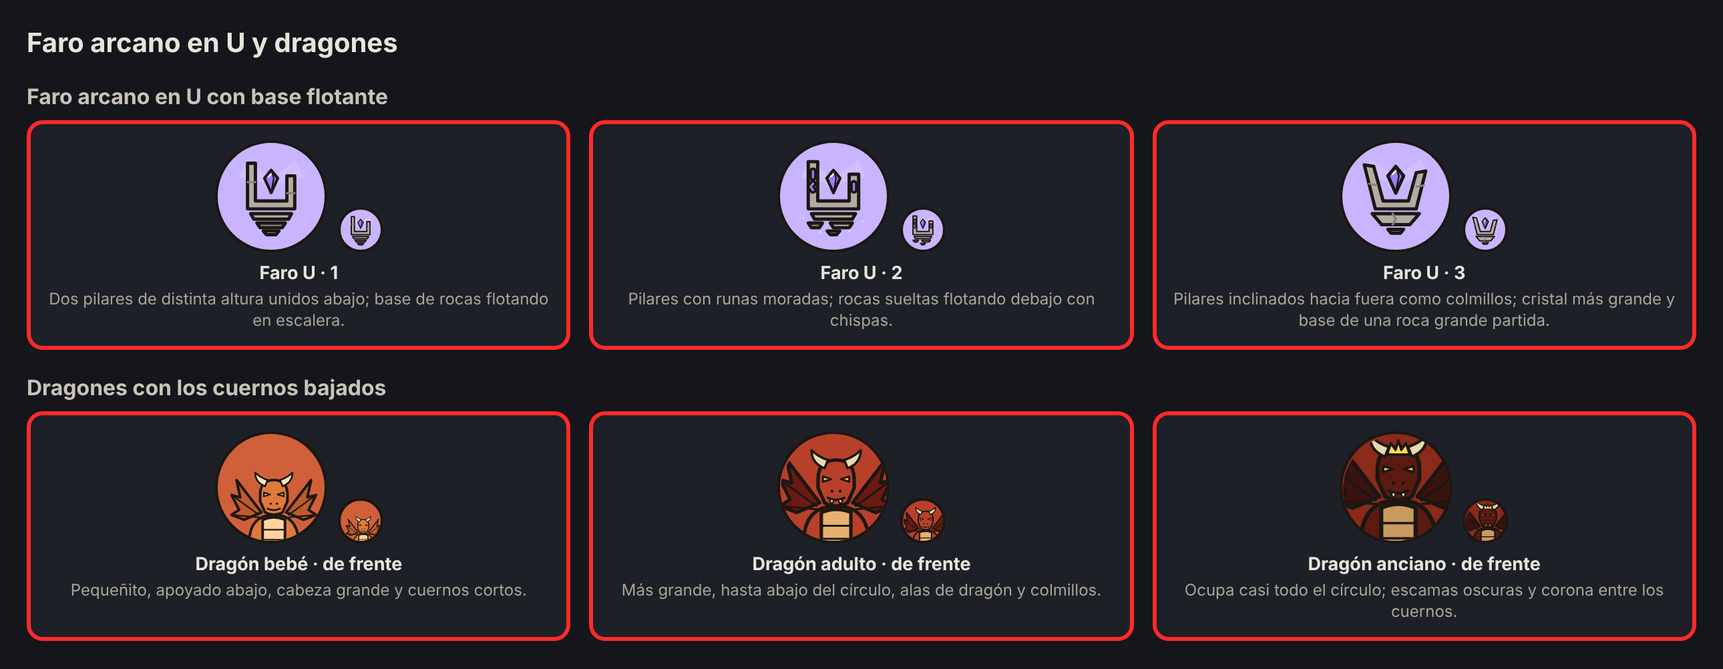
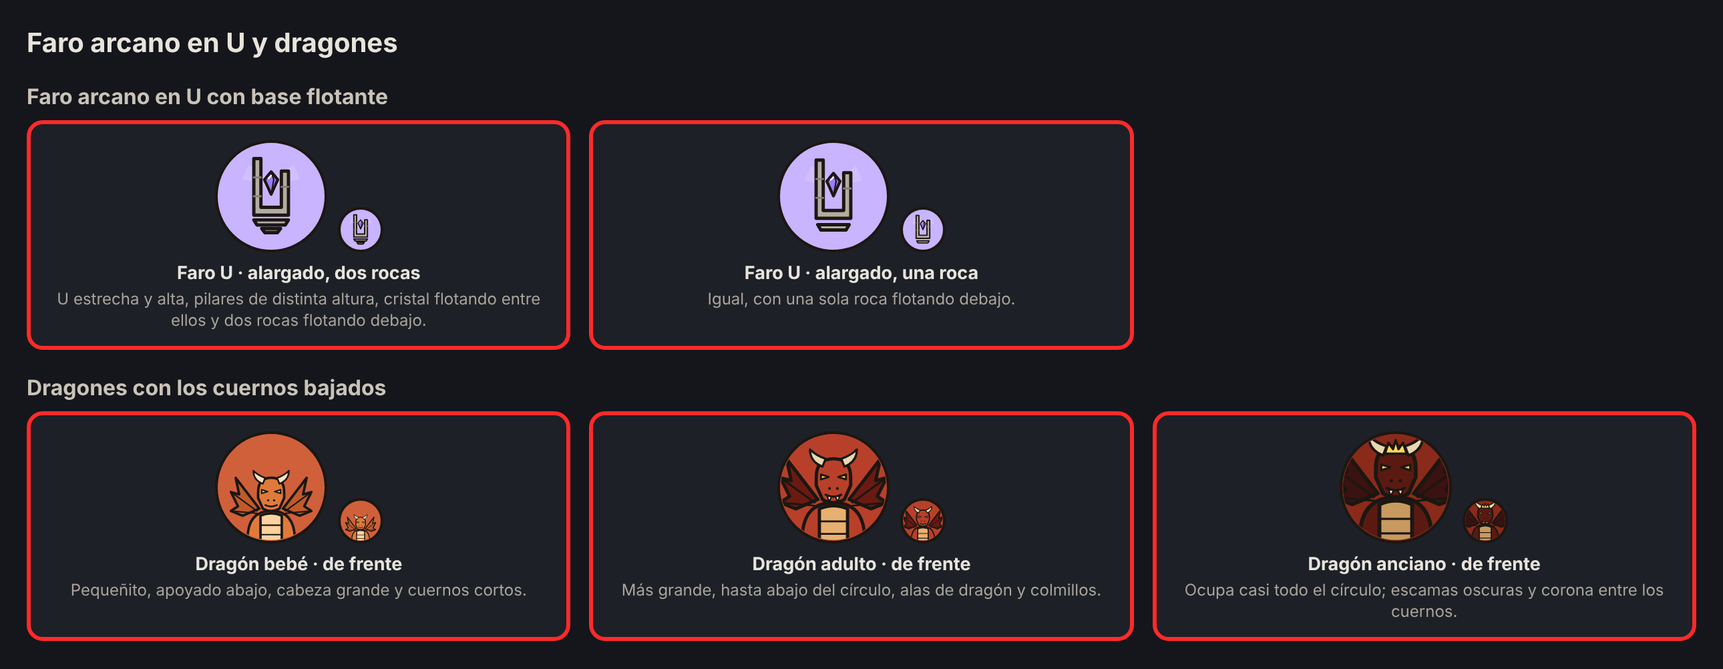
Maquetas: Faro U alargado y dragones centrados
Claude-Session: https://claude.ai/code/session_01KTvhdvJBVdNEHfAwzaEr54

diff --git a/maquetas/faro_U_y_dragones.html b/maquetas/faro_U_y_dragones.html
@@ -1,4 +1,4 @@
 <!doctype html><meta charset="utf-8"><style>html,body{height:auto}body{margin:0;background:#14161b;color:#e8e4dc;font:14px system-ui,sans-serif;padding:20px;width:1250px}h1{font-size:20px;margin:0 0 6px}h2{font-size:16px;margin:18px 0 8px;color:#c9c3b8}
 .grid{display:grid;grid-template-columns:repeat(3,1fr);gap:14px}.c{border:3px solid #ff2a2a;border-radius:12px;background:#1d2027;padding:12px;display:flex;flex-direction:column;align-items:center;text-align:center}
 .pair{display:flex;align-items:flex-end;gap:8px}.ci{border-radius:50%;display:grid;place-items:center;border:2px solid #1b1712;box-sizing:border-box;overflow:hidden}
-.c b{margin-top:8px;font-size:13.5px}.c small{color:#a9a399;font-size:12px;margin-top:3px;line-height:1.3}</style><h1>Faro arcano en U y dragones</h1><h2>Faro arcano en U con base flotante</h2><div class="grid"><div class="c"><div class="pair"><div class="ci" style="width:84px;height:84px;background:#c8b4ff"><svg width="66" height="66" viewBox="-4 -4 56 56"><g transform="translate(24 15) rotate(-25)"><path d="M0 -2L20 -6L20 6L0 2z" fill="#d8c8ff" opacity=".55"/></g><g transform="translate(24 15) rotate(205)"><path d="M0 -2L20 -6L20 6L0 2z" fill="#d8c8ff" opacity=".55"/></g><path d="M9 32V3h5v24h20V11h5v21z" fill="#b3aca2" stroke="#1b1712" stroke-width="2.1" stroke-linejoin="round" stroke-linecap="round"/><path d="M9 15h5M34 22h5" fill="none" stroke="#857f76" stroke-width="1.2" stroke-linecap="round"/><path d="M11 35h26l-2 3.5h-22z" fill="#b3aca2" stroke="#1b1712" stroke-width="2.1" stroke-linejoin="round" stroke-linecap="round"/><path d="M15 41h18l-2 3h-14z" fill="#857f76" stroke="#1b1712" stroke-width="2.1" stroke-linejoin="round" stroke-linecap="round"/><path d="M19 46h10l-2 2.4h-6z" fill="#b3aca2" stroke="#1b1712" stroke-width="2.1" stroke-linejoin="round" stroke-linecap="round"/><circle cx="24" cy="15" r="5" fill="#d8c8ff" opacity=".45"/><g transform="translate(24 15) scale(0.85)"><path d="M0 -9l5 6-5 11-5-11z" fill="#9a7dff" stroke="#1b1712" stroke-width="2.1" stroke-linejoin="round" stroke-linecap="round"/><path d="M0 -9l2 6-2 11" fill="none" stroke="#1b1712" stroke-width="1.1" stroke-linejoin="round" stroke-linecap="round"/><path d="M-2 -4l2-2" fill="none" stroke="#fff" stroke-width="1.2" stroke-linecap="round"/></g></svg></div><div class="ci" style="width:34px;height:34px;background:#c8b4ff"><svg width="26" height="26" viewBox="-4 -4 56 56"><g transform="translate(24 15) rotate(-25)"><path d="M0 -2L20 -6L20 6L0 2z" fill="#d8c8ff" opacity=".55"/></g><g transform="translate(24 15) rotate(205)"><path d="M0 -2L20 -6L20 6L0 2z" fill="#d8c8ff" opacity=".55"/></g><path d="M9 32V3h5v24h20V11h5v21z" fill="#b3aca2" stroke="#1b1712" stroke-width="2.1" stroke-linejoin="round" stroke-linecap="round"/><path d="M9 15h5M34 22h5" fill="none" stroke="#857f76" stroke-width="1.2" stroke-linecap="round"/><path d="M11 35h26l-2 3.5h-22z" fill="#b3aca2" stroke="#1b1712" stroke-width="2.1" stroke-linejoin="round" stroke-linecap="round"/><path d="M15 41h18l-2 3h-14z" fill="#857f76" stroke="#1b1712" stroke-width="2.1" stroke-linejoin="round" stroke-linecap="round"/><path d="M19 46h10l-2 2.4h-6z" fill="#b3aca2" stroke="#1b1712" stroke-width="2.1" stroke-linejoin="round" stroke-linecap="round"/><circle cx="24" cy="15" r="5" fill="#d8c8ff" opacity=".45"/><g transform="translate(24 15) scale(0.85)"><path d="M0 -9l5 6-5 11-5-11z" fill="#9a7dff" stroke="#1b1712" stroke-width="2.1" stroke-linejoin="round" stroke-linecap="round"/><path d="M0 -9l2 6-2 11" fill="none" stroke="#1b1712" stroke-width="1.1" stroke-linejoin="round" stroke-linecap="round"/><path d="M-2 -4l2-2" fill="none" stroke="#fff" stroke-width="1.2" stroke-linecap="round"/></g></svg></div></div><b>Faro U · 1</b><small>Dos pilares de distinta altura unidos abajo; base de rocas flotando en escalera.</small></div><div class="c"><div class="pair"><div class="ci" style="width:84px;height:84px;background:#c8b4ff"><svg width="66" height="66" viewBox="-4 -4 56 56"><g transform="translate(24 15) rotate(-25)"><path d="M0 -2L20 -6L20 6L0 2z" fill="#d8c8ff" opacity=".55"/></g><g transform="translate(24 15) rotate(205)"><path d="M0 -2L20 -6L20 6L0 2z" fill="#d8c8ff" opacity=".55"/></g><path d="M8 32V2h6v25h20V10h6v22z" fill="#b3aca2" stroke="#1b1712" stroke-width="2.1" stroke-linejoin="round" stroke-linecap="round"/><path d="M11 8v4M11 16l-1.5 2 1.5 2M37 16v4" fill="none" stroke="#1b1712" stroke-width="4.76" stroke-linecap="round" stroke-linejoin="round"/><path d="M11 8v4M11 16l-1.5 2 1.5 2M37 16v4" fill="none" stroke="#9a7dff" stroke-width="1.4" stroke-linecap="round" stroke-linejoin="round"/><path d="M10 35h28l-2 3.5h-24z" fill="#b3aca2" stroke="#1b1712" stroke-width="2.1" stroke-linejoin="round" stroke-linecap="round"/><path d="M8 41h9l-2 3h-5z" fill="#857f76" stroke="#1b1712" stroke-width="2.1" stroke-linejoin="round" stroke-linecap="round"/><path d="M22 41h14l-2 3h-10z" fill="#b3aca2" stroke="#1b1712" stroke-width="2.1" stroke-linejoin="round" stroke-linecap="round"/><path d="M20 46h8l-2 2.4h-4z" fill="#857f76" stroke="#1b1712" stroke-width="2.1" stroke-linejoin="round" stroke-linecap="round"/><circle cx="5" cy="38" r="1" fill="#d8c8ff" stroke="#1b1712" stroke-width="0"/><circle cx="43" cy="40" r="1" fill="#d8c8ff" stroke="#1b1712" stroke-width="0"/><circle cx="16" cy="47" r="1" fill="#d8c8ff" stroke="#1b1712" stroke-width="0"/><circle cx="34" cy="46" r="1" fill="#d8c8ff" stroke="#1b1712" stroke-width="0"/><circle cx="24" cy="15" r="5" fill="#d8c8ff" opacity=".45"/><g transform="translate(24 15) scale(0.85)"><path d="M0 -9l5 6-5 11-5-11z" fill="#9a7dff" stroke="#1b1712" stroke-width="2.1" stroke-linejoin="round" stroke-linecap="round"/><path d="M0 -9l2 6-2 11" fill="none" stroke="#1b1712" stroke-width="1.1" stroke-linejoin="round" stroke-linecap="round"/><path d="M-2 -4l2-2" fill="none" stroke="#fff" stroke-width="1.2" stroke-linecap="round"/></g></svg></div><div class="ci" style="width:34px;height:34px;background:#c8b4ff"><svg width="26" height="26" viewBox="-4 -4 56 56"><g transform="translate(24 15) rotate(-25)"><path d="M0 -2L20 -6L20 6L0 2z" fill="#d8c8ff" opacity=".55"/></g><g transform="translate(24 15) rotate(205)"><path d="M0 -2L20 -6L20 6L0 2z" fill="#d8c8ff" opacity=".55"/></g><path d="M8 32V2h6v25h20V10h6v22z" fill="#b3aca2" stroke="#1b1712" stroke-width="2.1" stroke-linejoin="round" stroke-linecap="round"/><path d="M11 8v4M11 16l-1.5 2 1.5 2M37 16v4" fill="none" stroke="#1b1712" stroke-width="4.76" stroke-linecap="round" stroke-linejoin="round"/><path d="M11 8v4M11 16l-1.5 2 1.5 2M37 16v4" fill="none" stroke="#9a7dff" stroke-width="1.4" stroke-linecap="round" stroke-linejoin="round"/><path d="M10 35h28l-2 3.5h-24z" fill="#b3aca2" stroke="#1b1712" stroke-width="2.1" stroke-linejoin="round" stroke-linecap="round"/><path d="M8 41h9l-2 3h-5z" fill="#857f76" stroke="#1b1712" stroke-width="2.1" stroke-linejoin="round" stroke-linecap="round"/><path d="M22 41h14l-2 3h-10z" fill="#b3aca2" stroke="#1b1712" stroke-width="2.1" stroke-linejoin="round" stroke-linecap="round"/><path d="M20 46h8l-2 2.4h-4z" fill="#857f76" stroke="#1b1712" stroke-width="2.1" stroke-linejoin="round" stroke-linecap="round"/><circle cx="5" cy="38" r="1" fill="#d8c8ff" stroke="#1b1712" stroke-width="0"/><circle cx="43" cy="40" r="1" fill="#d8c8ff" stroke="#1b1712" stroke-width="0"/><circle cx="16" cy="47" r="1" fill="#d8c8ff" stroke="#1b1712" stroke-width="0"/><circle cx="34" cy="46" r="1" fill="#d8c8ff" stroke="#1b1712" stroke-width="0"/><circle cx="24" cy="15" r="5" fill="#d8c8ff" opacity=".45"/><g transform="translate(24 15) scale(0.85)"><path d="M0 -9l5 6-5 11-5-11z" fill="#9a7dff" stroke="#1b1712" stroke-width="2.1" stroke-linejoin="round" stroke-linecap="round"/><path d="M0 -9l2 6-2 11" fill="none" stroke="#1b1712" stroke-width="1.1" stroke-linejoin="round" stroke-linecap="round"/><path d="M-2 -4l2-2" fill="none" stroke="#fff" stroke-width="1.2" stroke-linecap="round"/></g></svg></div></div><b>Faro U · 2</b><small>Pilares con runas moradas; rocas sueltas flotando debajo con chispas.</small></div><div class="c"><div class="pair"><div class="ci" style="width:84px;height:84px;background:#c8b4ff"><svg width="66" height="66" viewBox="-4 -4 56 56"><g transform="translate(24 14) rotate(-25)"><path d="M0 -2L20 -6L20 6L0 2z" fill="#d8c8ff" opacity=".55"/></g><g transform="translate(24 14) rotate(205)"><path d="M0 -2L20 -6L20 6L0 2z" fill="#d8c8ff" opacity=".55"/></g><path d="M11 32L4 4l6 1 6 22h16l5-18 6-1-6 24z" fill="#b3aca2" stroke="#1b1712" stroke-width="2.1" stroke-linejoin="round" stroke-linecap="round"/><path d="M7 16l5 1M37 18l5-1" fill="none" stroke="#857f76" stroke-width="1.2" stroke-linecap="round"/><path d="M9 35h30l-6 7h-18z" fill="#b3aca2" stroke="#1b1712" stroke-width="2.1" stroke-linejoin="round" stroke-linecap="round"/><path d="M22 35l2 3.5-2 3.5" fill="none" stroke="#857f76" stroke-width="1.4" stroke-linecap="round"/><path d="M19 45h10l-2 2.4h-6z" fill="#857f76" stroke="#1b1712" stroke-width="2.1" stroke-linejoin="round" stroke-linecap="round"/><circle cx="24" cy="14" r="6" fill="#d8c8ff" opacity=".45"/><g transform="translate(24 14) scale(1)"><path d="M0 -9l5 6-5 11-5-11z" fill="#9a7dff" stroke="#1b1712" stroke-width="2.1" stroke-linejoin="round" stroke-linecap="round"/><path d="M0 -9l2 6-2 11" fill="none" stroke="#1b1712" stroke-width="1.1" stroke-linejoin="round" stroke-linecap="round"/><path d="M-2 -4l2-2" fill="none" stroke="#fff" stroke-width="1.2" stroke-linecap="round"/></g></svg></div><div class="ci" style="width:34px;height:34px;background:#c8b4ff"><svg width="26" height="26" viewBox="-4 -4 56 56"><g transform="translate(24 14) rotate(-25)"><path d="M0 -2L20 -6L20 6L0 2z" fill="#d8c8ff" opacity=".55"/></g><g transform="translate(24 14) rotate(205)"><path d="M0 -2L20 -6L20 6L0 2z" fill="#d8c8ff" opacity=".55"/></g><path d="M11 32L4 4l6 1 6 22h16l5-18 6-1-6 24z" fill="#b3aca2" stroke="#1b1712" stroke-width="2.1" stroke-linejoin="round" stroke-linecap="round"/><path d="M7 16l5 1M37 18l5-1" fill="none" stroke="#857f76" stroke-width="1.2" stroke-linecap="round"/><path d="M9 35h30l-6 7h-18z" fill="#b3aca2" stroke="#1b1712" stroke-width="2.1" stroke-linejoin="round" stroke-linecap="round"/><path d="M22 35l2 3.5-2 3.5" fill="none" stroke="#857f76" stroke-width="1.4" stroke-linecap="round"/><path d="M19 45h10l-2 2.4h-6z" fill="#857f76" stroke="#1b1712" stroke-width="2.1" stroke-linejoin="round" stroke-linecap="round"/><circle cx="24" cy="14" r="6" fill="#d8c8ff" opacity=".45"/><g transform="translate(24 14) scale(1)"><path d="M0 -9l5 6-5 11-5-11z" fill="#9a7dff" stroke="#1b1712" stroke-width="2.1" stroke-linejoin="round" stroke-linecap="round"/><path d="M0 -9l2 6-2 11" fill="none" stroke="#1b1712" stroke-width="1.1" stroke-linejoin="round" stroke-linecap="round"/><path d="M-2 -4l2-2" fill="none" stroke="#fff" stroke-width="1.2" stroke-linecap="round"/></g></svg></div></div><b>Faro U · 3</b><small>Pilares inclinados hacia fuera como colmillos; cristal más grande y base de una roca grande partida.</small></div></div><h2>Dragones con los cuernos bajados</h2><div class="grid"><div class="c"><div class="pair"><div class="ci" style="width:84px;height:84px;background:#d0603a"><svg width="84" height="84" viewBox="-4 -4 56 56"><defs><clipPath id="cc0.62"><circle cx="24" cy="24" r="27.6"/></clipPath></defs><g clip-path="url(#cc0.62)"><g transform="translate(24 45.04) scale(0.62)"><g transform="translate(0 -16)"><g transform="scale(1 1)"><path d="M-10 0L-30 -26L-27 -12L-34 -14L-28 -2L-34 2L-24 6z" fill="#c05a2a" stroke="#1b1712" stroke-width="2.1" stroke-linejoin="round" stroke-linecap="round"/><path d="M-10 0L-30 -26M-12 2L-34 -14M-12 4L-34 2" fill="none" stroke="#1b1712" stroke-width="1.2" stroke-linecap="round"/></g><g transform="scale(-1 1)"><path d="M-10 0L-30 -26L-27 -12L-34 -14L-28 -2L-34 2L-24 6z" fill="#c05a2a" stroke="#1b1712" stroke-width="2.1" stroke-linejoin="round" stroke-linecap="round"/><path d="M-10 0L-30 -26M-12 2L-34 -14M-12 4L-34 2" fill="none" stroke="#1b1712" stroke-width="1.2" stroke-linecap="round"/></g></g><path d="M-20 10q0-24 20-24t20 24v14h-40z" fill="#e07a3a" stroke="#1b1712" stroke-width="2.1" stroke-linejoin="round" stroke-linecap="round"/><path d="M-9 -10q9-4 18 0v34h-18z" fill="#ffd2a0" stroke="#1b1712" stroke-width="2.1" stroke-linejoin="round" stroke-linecap="round"/><path d="M-9 -2h18M-9 6h18M-9 14h18" fill="none" stroke="#1b1712" stroke-width="1.2" stroke-linecap="round"/><g transform="translate(0 -22)"><path d="M-11 -8q0-12 11-12t11 12v5l-4 9q-7 4-14 0l-4-9z" fill="#e07a3a" stroke="#1b1712" stroke-width="2.1" stroke-linejoin="round" stroke-linecap="round"/><path d="M-5 2q5 3 10 0" fill="none" stroke="#1b1712" stroke-width="0" stroke-linejoin="round" stroke-linecap="round"/><path d="M-5 3q5 2.5 10 0" fill="none" stroke="#1b1712" stroke-width="1.4" stroke-linecap="round"/><circle cx="-2.5" cy="-1" r="0.9" fill="#1b1712" stroke="#1b1712" stroke-width="0"/><circle cx="2.5" cy="-1" r="0.9" fill="#1b1712" stroke="#1b1712" stroke-width="0"/><path d="M-7 -15q-8-3-8-11 4 4 10 6zM7 -15q8-3 8-11-4 4-10 6z" fill="#f4e4c0" stroke="#1b1712" stroke-width="1.4" stroke-linejoin="round" stroke-linecap="round"/><path d="M-8 -10l5 1.6-5 1.6zM8 -10l-5 1.6 5 1.6z" fill="#ffd23a" stroke="#1b1712" stroke-width="1.2" stroke-linejoin="round" stroke-linecap="round"/></g></g></g></svg></div><div class="ci" style="width:34px;height:34px;background:#d0603a"><svg width="34" height="34" viewBox="-4 -4 56 56"><defs><clipPath id="cc0.62"><circle cx="24" cy="24" r="27.6"/></clipPath></defs><g clip-path="url(#cc0.62)"><g transform="translate(24 45.04) scale(0.62)"><g transform="translate(0 -16)"><g transform="scale(1 1)"><path d="M-10 0L-30 -26L-27 -12L-34 -14L-28 -2L-34 2L-24 6z" fill="#c05a2a" stroke="#1b1712" stroke-width="2.1" stroke-linejoin="round" stroke-linecap="round"/><path d="M-10 0L-30 -26M-12 2L-34 -14M-12 4L-34 2" fill="none" stroke="#1b1712" stroke-width="1.2" stroke-linecap="round"/></g><g transform="scale(-1 1)"><path d="M-10 0L-30 -26L-27 -12L-34 -14L-28 -2L-34 2L-24 6z" fill="#c05a2a" stroke="#1b1712" stroke-width="2.1" stroke-linejoin="round" stroke-linecap="round"/><path d="M-10 0L-30 -26M-12 2L-34 -14M-12 4L-34 2" fill="none" stroke="#1b1712" stroke-width="1.2" stroke-linecap="round"/></g></g><path d="M-20 10q0-24 20-24t20 24v14h-40z" fill="#e07a3a" stroke="#1b1712" stroke-width="2.1" stroke-linejoin="round" stroke-linecap="round"/><path d="M-9 -10q9-4 18 0v34h-18z" fill="#ffd2a0" stroke="#1b1712" stroke-width="2.1" stroke-linejoin="round" stroke-linecap="round"/><path d="M-9 -2h18M-9 6h18M-9 14h18" fill="none" stroke="#1b1712" stroke-width="1.2" stroke-linecap="round"/><g transform="translate(0 -22)"><path d="M-11 -8q0-12 11-12t11 12v5l-4 9q-7 4-14 0l-4-9z" fill="#e07a3a" stroke="#1b1712" stroke-width="2.1" stroke-linejoin="round" stroke-linecap="round"/><path d="M-5 2q5 3 10 0" fill="none" stroke="#1b1712" stroke-width="0" stroke-linejoin="round" stroke-linecap="round"/><path d="M-5 3q5 2.5 10 0" fill="none" stroke="#1b1712" stroke-width="1.4" stroke-linecap="round"/><circle cx="-2.5" cy="-1" r="0.9" fill="#1b1712" stroke="#1b1712" stroke-width="0"/><circle cx="2.5" cy="-1" r="0.9" fill="#1b1712" stroke="#1b1712" stroke-width="0"/><path d="M-7 -15q-8-3-8-11 4 4 10 6zM7 -15q8-3 8-11-4 4-10 6z" fill="#f4e4c0" stroke="#1b1712" stroke-width="1.4" stroke-linejoin="round" stroke-linecap="round"/><path d="M-8 -10l5 1.6-5 1.6zM8 -10l-5 1.6 5 1.6z" fill="#ffd23a" stroke="#1b1712" stroke-width="1.2" stroke-linejoin="round" stroke-linecap="round"/></g></g></g></svg></div></div><b>Dragón bebé · de frente</b><small>Pequeñito, apoyado abajo, cabeza grande y cuernos cortos.</small></div><div class="c"><div class="pair"><div class="ci" style="width:84px;height:84px;background:#b8402a"><svg width="84" height="84" viewBox="-4 -4 56 56"><defs><clipPath id="cc0.82"><circle cx="24" cy="24" r="27.6"/></clipPath></defs><g clip-path="url(#cc0.82)"><g transform="translate(24 43.44) scale(0.82)"><g transform="translate(0 -16)"><g transform="scale(1 1)"><path d="M-10 0L-30 -26L-27 -12L-34 -14L-28 -2L-34 2L-24 6z" fill="#6a1a12" stroke="#1b1712" stroke-width="2.1" stroke-linejoin="round" stroke-linecap="round"/><path d="M-10 0L-30 -26M-12 2L-34 -14M-12 4L-34 2" fill="none" stroke="#1b1712" stroke-width="1.2" stroke-linecap="round"/></g><g transform="scale(-1 1)"><path d="M-10 0L-30 -26L-27 -12L-34 -14L-28 -2L-34 2L-24 6z" fill="#6a1a12" stroke="#1b1712" stroke-width="2.1" stroke-linejoin="round" stroke-linecap="round"/><path d="M-10 0L-30 -26M-12 2L-34 -14M-12 4L-34 2" fill="none" stroke="#1b1712" stroke-width="1.2" stroke-linecap="round"/></g></g><path d="M-20 10q0-24 20-24t20 24v14h-40z" fill="#b8402a" stroke="#1b1712" stroke-width="2.1" stroke-linejoin="round" stroke-linecap="round"/><path d="M-9 -10q9-4 18 0v34h-18z" fill="#e8b070" stroke="#1b1712" stroke-width="2.1" stroke-linejoin="round" stroke-linecap="round"/><path d="M-9 -2h18M-9 6h18M-9 14h18" fill="none" stroke="#1b1712" stroke-width="1.2" stroke-linecap="round"/><g transform="translate(0 -22)"><path d="M-11 -8q0-12 11-12t11 12v5l-4 9q-7 4-14 0l-4-9z" fill="#b8402a" stroke="#1b1712" stroke-width="2.1" stroke-linejoin="round" stroke-linecap="round"/><path d="M-5 2q5 3 10 0" fill="none" stroke="#1b1712" stroke-width="0" stroke-linejoin="round" stroke-linecap="round"/><path d="M-5 3q5 2.5 10 0" fill="none" stroke="#1b1712" stroke-width="1.4" stroke-linecap="round"/><circle cx="-2.5" cy="-1" r="0.9" fill="#1b1712" stroke="#1b1712" stroke-width="0"/><circle cx="2.5" cy="-1" r="0.9" fill="#1b1712" stroke="#1b1712" stroke-width="0"/><path d="M-7 -15q-8-3-8-11 4 4 10 6zM7 -15q8-3 8-11-4 4-10 6z" fill="#e8d8b0" stroke="#1b1712" stroke-width="1.4" stroke-linejoin="round" stroke-linecap="round"/><path d="M-8 -10l5 1.6-5 1.6zM8 -10l-5 1.6 5 1.6z" fill="#ffd23a" stroke="#1b1712" stroke-width="1.2" stroke-linejoin="round" stroke-linecap="round"/><path d="M-4 4l1.4 3.4 1.4-3.4zM1.2 4l1.4 3.4 1.4-3.4z" fill="#fff4dc" stroke="#1b1712" stroke-width="0.9" stroke-linejoin="round" stroke-linecap="round"/></g></g></g></svg></div><div class="ci" style="width:34px;height:34px;background:#b8402a"><svg width="34" height="34" viewBox="-4 -4 56 56"><defs><clipPath id="cc0.82"><circle cx="24" cy="24" r="27.6"/></clipPath></defs><g clip-path="url(#cc0.82)"><g transform="translate(24 43.44) scale(0.82)"><g transform="translate(0 -16)"><g transform="scale(1 1)"><path d="M-10 0L-30 -26L-27 -12L-34 -14L-28 -2L-34 2L-24 6z" fill="#6a1a12" stroke="#1b1712" stroke-width="2.1" stroke-linejoin="round" stroke-linecap="round"/><path d="M-10 0L-30 -26M-12 2L-34 -14M-12 4L-34 2" fill="none" stroke="#1b1712" stroke-width="1.2" stroke-linecap="round"/></g><g transform="scale(-1 1)"><path d="M-10 0L-30 -26L-27 -12L-34 -14L-28 -2L-34 2L-24 6z" fill="#6a1a12" stroke="#1b1712" stroke-width="2.1" stroke-linejoin="round" stroke-linecap="round"/><path d="M-10 0L-30 -26M-12 2L-34 -14M-12 4L-34 2" fill="none" stroke="#1b1712" stroke-width="1.2" stroke-linecap="round"/></g></g><path d="M-20 10q0-24 20-24t20 24v14h-40z" fill="#b8402a" stroke="#1b1712" stroke-width="2.1" stroke-linejoin="round" stroke-linecap="round"/><path d="M-9 -10q9-4 18 0v34h-18z" fill="#e8b070" stroke="#1b1712" stroke-width="2.1" stroke-linejoin="round" stroke-linecap="round"/><path d="M-9 -2h18M-9 6h18M-9 14h18" fill="none" stroke="#1b1712" stroke-width="1.2" stroke-linecap="round"/><g transform="translate(0 -22)"><path d="M-11 -8q0-12 11-12t11 12v5l-4 9q-7 4-14 0l-4-9z" fill="#b8402a" stroke="#1b1712" stroke-width="2.1" stroke-linejoin="round" stroke-linecap="round"/><path d="M-5 2q5 3 10 0" fill="none" stroke="#1b1712" stroke-width="0" stroke-linejoin="round" stroke-linecap="round"/><path d="M-5 3q5 2.5 10 0" fill="none" stroke="#1b1712" stroke-width="1.4" stroke-linecap="round"/><circle cx="-2.5" cy="-1" r="0.9" fill="#1b1712" stroke="#1b1712" stroke-width="0"/><circle cx="2.5" cy="-1" r="0.9" fill="#1b1712" stroke="#1b1712" stroke-width="0"/><path d="M-7 -15q-8-3-8-11 4 4 10 6zM7 -15q8-3 8-11-4 4-10 6z" fill="#e8d8b0" stroke="#1b1712" stroke-width="1.4" stroke-linejoin="round" stroke-linecap="round"/><path d="M-8 -10l5 1.6-5 1.6zM8 -10l-5 1.6 5 1.6z" fill="#ffd23a" stroke="#1b1712" stroke-width="1.2" stroke-linejoin="round" stroke-linecap="round"/><path d="M-4 4l1.4 3.4 1.4-3.4zM1.2 4l1.4 3.4 1.4-3.4z" fill="#fff4dc" stroke="#1b1712" stroke-width="0.9" stroke-linejoin="round" stroke-linecap="round"/></g></g></g></svg></div></div><b>Dragón adulto · de frente</b><small>Más grande, hasta abajo del círculo, alas de dragón y colmillos.</small></div><div class="c"><div class="pair"><div class="ci" style="width:84px;height:84px;background:#8a2a1a"><svg width="84" height="84" viewBox="-4 -4 56 56"><defs><clipPath id="cc0.95"><circle cx="24" cy="24" r="27.6"/></clipPath></defs><g clip-path="url(#cc0.95)"><g transform="translate(24 42.4) scale(0.95)"><g transform="translate(0 -16)"><g transform="scale(1 1)"><path d="M-10 0L-30 -26L-27 -12L-34 -14L-28 -2L-34 2L-24 6z" fill="#3a1210" stroke="#1b1712" stroke-width="2.1" stroke-linejoin="round" stroke-linecap="round"/><path d="M-10 0L-30 -26M-12 2L-34 -14M-12 4L-34 2" fill="none" stroke="#1b1712" stroke-width="1.2" stroke-linecap="round"/></g><g transform="scale(-1 1)"><path d="M-10 0L-30 -26L-27 -12L-34 -14L-28 -2L-34 2L-24 6z" fill="#3a1210" stroke="#1b1712" stroke-width="2.1" stroke-linejoin="round" stroke-linecap="round"/><path d="M-10 0L-30 -26M-12 2L-34 -14M-12 4L-34 2" fill="none" stroke="#1b1712" stroke-width="1.2" stroke-linecap="round"/></g></g><path d="M-20 10q0-24 20-24t20 24v14h-40z" fill="#5a1a12" stroke="#1b1712" stroke-width="2.1" stroke-linejoin="round" stroke-linecap="round"/><path d="M-9 -10q9-4 18 0v34h-18z" fill="#c89a60" stroke="#1b1712" stroke-width="2.1" stroke-linejoin="round" stroke-linecap="round"/><path d="M-9 -2h18M-9 6h18M-9 14h18" fill="none" stroke="#1b1712" stroke-width="1.2" stroke-linecap="round"/><g transform="translate(0 -22)"><path d="M-11 -8q0-12 11-12t11 12v5l-4 9q-7 4-14 0l-4-9z" fill="#5a1a12" stroke="#1b1712" stroke-width="2.1" stroke-linejoin="round" stroke-linecap="round"/><path d="M-5 2q5 3 10 0" fill="none" stroke="#1b1712" stroke-width="0" stroke-linejoin="round" stroke-linecap="round"/><path d="M-5 3q5 2.5 10 0" fill="none" stroke="#1b1712" stroke-width="1.4" stroke-linecap="round"/><circle cx="-2.5" cy="-1" r="0.9" fill="#1b1712" stroke="#1b1712" stroke-width="0"/><circle cx="2.5" cy="-1" r="0.9" fill="#1b1712" stroke="#1b1712" stroke-width="0"/><path d="M-7 -15q-8-3-8-11 4 4 10 6zM7 -15q8-3 8-11-4 4-10 6z" fill="#e8d8b0" stroke="#1b1712" stroke-width="1.4" stroke-linejoin="round" stroke-linecap="round"/><path d="M-6 -16l2-6 2.5 3.5 1.5-5 1.5 5 2.5-3.5 2 6z" fill="#ffd75a" stroke="#1b1712" stroke-width="1.3" stroke-linejoin="round" stroke-linecap="round"/><path d="M7 -15q8-3 8-11-4 4-10 6z" fill="#e8d8b0" stroke="#1b1712" stroke-width="1.4" stroke-linejoin="round" stroke-linecap="round"/><path d="M-8 -10l5 1.6-5 1.6zM8 -10l-5 1.6 5 1.6z" fill="#ffd23a" stroke="#1b1712" stroke-width="1.2" stroke-linejoin="round" stroke-linecap="round"/><path d="M-4 4l1.4 3.4 1.4-3.4zM1.2 4l1.4 3.4 1.4-3.4z" fill="#fff4dc" stroke="#1b1712" stroke-width="0.9" stroke-linejoin="round" stroke-linecap="round"/></g></g></g></svg></div><div class="ci" style="width:34px;height:34px;background:#8a2a1a"><svg width="34" height="34" viewBox="-4 -4 56 56"><defs><clipPath id="cc0.95"><circle cx="24" cy="24" r="27.6"/></clipPath></defs><g clip-path="url(#cc0.95)"><g transform="translate(24 42.4) scale(0.95)"><g transform="translate(0 -16)"><g transform="scale(1 1)"><path d="M-10 0L-30 -26L-27 -12L-34 -14L-28 -2L-34 2L-24 6z" fill="#3a1210" stroke="#1b1712" stroke-width="2.1" stroke-linejoin="round" stroke-linecap="round"/><path d="M-10 0L-30 -26M-12 2L-34 -14M-12 4L-34 2" fill="none" stroke="#1b1712" stroke-width="1.2" stroke-linecap="round"/></g><g transform="scale(-1 1)"><path d="M-10 0L-30 -26L-27 -12L-34 -14L-28 -2L-34 2L-24 6z" fill="#3a1210" stroke="#1b1712" stroke-width="2.1" stroke-linejoin="round" stroke-linecap="round"/><path d="M-10 0L-30 -26M-12 2L-34 -14M-12 4L-34 2" fill="none" stroke="#1b1712" stroke-width="1.2" stroke-linecap="round"/></g></g><path d="M-20 10q0-24 20-24t20 24v14h-40z" fill="#5a1a12" stroke="#1b1712" stroke-width="2.1" stroke-linejoin="round" stroke-linecap="round"/><path d="M-9 -10q9-4 18 0v34h-18z" fill="#c89a60" stroke="#1b1712" stroke-width="2.1" stroke-linejoin="round" stroke-linecap="round"/><path d="M-9 -2h18M-9 6h18M-9 14h18" fill="none" stroke="#1b1712" stroke-width="1.2" stroke-linecap="round"/><g transform="translate(0 -22)"><path d="M-11 -8q0-12 11-12t11 12v5l-4 9q-7 4-14 0l-4-9z" fill="#5a1a12" stroke="#1b1712" stroke-width="2.1" stroke-linejoin="round" stroke-linecap="round"/><path d="M-5 2q5 3 10 0" fill="none" stroke="#1b1712" stroke-width="0" stroke-linejoin="round" stroke-linecap="round"/><path d="M-5 3q5 2.5 10 0" fill="none" stroke="#1b1712" stroke-width="1.4" stroke-linecap="round"/><circle cx="-2.5" cy="-1" r="0.9" fill="#1b1712" stroke="#1b1712" stroke-width="0"/><circle cx="2.5" cy="-1" r="0.9" fill="#1b1712" stroke="#1b1712" stroke-width="0"/><path d="M-7 -15q-8-3-8-11 4 4 10 6zM7 -15q8-3 8-11-4 4-10 6z" fill="#e8d8b0" stroke="#1b1712" stroke-width="1.4" stroke-linejoin="round" stroke-linecap="round"/><path d="M-6 -16l2-6 2.5 3.5 1.5-5 1.5 5 2.5-3.5 2 6z" fill="#ffd75a" stroke="#1b1712" stroke-width="1.3" stroke-linejoin="round" stroke-linecap="round"/><path d="M7 -15q8-3 8-11-4 4-10 6z" fill="#e8d8b0" stroke="#1b1712" stroke-width="1.4" stroke-linejoin="round" stroke-linecap="round"/><path d="M-8 -10l5 1.6-5 1.6zM8 -10l-5 1.6 5 1.6z" fill="#ffd23a" stroke="#1b1712" stroke-width="1.2" stroke-linejoin="round" stroke-linecap="round"/><path d="M-4 4l1.4 3.4 1.4-3.4zM1.2 4l1.4 3.4 1.4-3.4z" fill="#fff4dc" stroke="#1b1712" stroke-width="0.9" stroke-linejoin="round" stroke-linecap="round"/></g></g></g></svg></div></div><b>Dragón anciano · de frente</b><small>Ocupa casi todo el círculo; escamas oscuras y corona entre los cuernos.</small></div></div>
+.c b{margin-top:8px;font-size:13.5px}.c small{color:#a9a399;font-size:12px;margin-top:3px;line-height:1.3}</style><h1>Faro arcano en U y dragones</h1><h2>Faro arcano en U con base flotante</h2><div class="grid"><div class="c"><div class="pair"><div class="ci" style="width:84px;height:84px;background:#c8b4ff"><svg width="66" height="66" viewBox="-4 -4 56 56"><g transform="translate(24 16) rotate(-25)"><path d="M0 -2L18 -5L18 5L0 2z" fill="#d8c8ff" opacity=".55"/></g><g transform="translate(24 16) rotate(205)"><path d="M0 -2L18 -5L18 5L0 2z" fill="#d8c8ff" opacity=".55"/></g><path d="M13 36V0h4.5v31h13V8H35v28z" fill="#b3aca2" stroke="#1b1712" stroke-width="2.1" stroke-linejoin="round" stroke-linecap="round"/><path d="M13 12h4.5M30.5 18H35M13 24h4.5" fill="none" stroke="#857f76" stroke-width="1.2" stroke-linecap="round"/><path d="M13 39h22l-2 3.2h-18z" fill="#b3aca2" stroke="#1b1712" stroke-width="2.1" stroke-linejoin="round" stroke-linecap="round"/><path d="M18 44.5h12l-2 2.6h-8z" fill="#857f76" stroke="#1b1712" stroke-width="2.1" stroke-linejoin="round" stroke-linecap="round"/><circle cx="24" cy="16" r="5" fill="#d8c8ff" opacity=".45"/><g transform="translate(24 16) scale(0.85)"><path d="M0 -9l5 6-5 11-5-11z" fill="#9a7dff" stroke="#1b1712" stroke-width="2.1" stroke-linejoin="round" stroke-linecap="round"/><path d="M0 -9l2 6-2 11" fill="none" stroke="#1b1712" stroke-width="1.1" stroke-linejoin="round" stroke-linecap="round"/><path d="M-2 -4l2-2" fill="none" stroke="#fff" stroke-width="1.2" stroke-linecap="round"/></g></svg></div><div class="ci" style="width:34px;height:34px;background:#c8b4ff"><svg width="26" height="26" viewBox="-4 -4 56 56"><g transform="translate(24 16) rotate(-25)"><path d="M0 -2L18 -5L18 5L0 2z" fill="#d8c8ff" opacity=".55"/></g><g transform="translate(24 16) rotate(205)"><path d="M0 -2L18 -5L18 5L0 2z" fill="#d8c8ff" opacity=".55"/></g><path d="M13 36V0h4.5v31h13V8H35v28z" fill="#b3aca2" stroke="#1b1712" stroke-width="2.1" stroke-linejoin="round" stroke-linecap="round"/><path d="M13 12h4.5M30.5 18H35M13 24h4.5" fill="none" stroke="#857f76" stroke-width="1.2" stroke-linecap="round"/><path d="M13 39h22l-2 3.2h-18z" fill="#b3aca2" stroke="#1b1712" stroke-width="2.1" stroke-linejoin="round" stroke-linecap="round"/><path d="M18 44.5h12l-2 2.6h-8z" fill="#857f76" stroke="#1b1712" stroke-width="2.1" stroke-linejoin="round" stroke-linecap="round"/><circle cx="24" cy="16" r="5" fill="#d8c8ff" opacity=".45"/><g transform="translate(24 16) scale(0.85)"><path d="M0 -9l5 6-5 11-5-11z" fill="#9a7dff" stroke="#1b1712" stroke-width="2.1" stroke-linejoin="round" stroke-linecap="round"/><path d="M0 -9l2 6-2 11" fill="none" stroke="#1b1712" stroke-width="1.1" stroke-linejoin="round" stroke-linecap="round"/><path d="M-2 -4l2-2" fill="none" stroke="#fff" stroke-width="1.2" stroke-linecap="round"/></g></svg></div></div><b>Faro U · alargado, dos rocas</b><small>U estrecha y alta, pilares de distinta altura, cristal flotando entre ellos y dos rocas flotando debajo.</small></div><div class="c"><div class="pair"><div class="ci" style="width:84px;height:84px;background:#c8b4ff"><svg width="66" height="66" viewBox="-4 -4 56 56"><g transform="translate(24 17) rotate(-25)"><path d="M0 -2L18 -5L18 5L0 2z" fill="#d8c8ff" opacity=".55"/></g><g transform="translate(24 17) rotate(205)"><path d="M0 -2L18 -5L18 5L0 2z" fill="#d8c8ff" opacity=".55"/></g><path d="M13 38V1h4.5v32h13V9H35v29z" fill="#b3aca2" stroke="#1b1712" stroke-width="2.1" stroke-linejoin="round" stroke-linecap="round"/><path d="M13 13h4.5M30.5 19H35M13 25h4.5" fill="none" stroke="#857f76" stroke-width="1.2" stroke-linecap="round"/><path d="M14 42h20l-2 3.4h-16z" fill="#b3aca2" stroke="#1b1712" stroke-width="2.1" stroke-linejoin="round" stroke-linecap="round"/><circle cx="24" cy="17" r="5" fill="#d8c8ff" opacity=".45"/><g transform="translate(24 17) scale(0.85)"><path d="M0 -9l5 6-5 11-5-11z" fill="#9a7dff" stroke="#1b1712" stroke-width="2.1" stroke-linejoin="round" stroke-linecap="round"/><path d="M0 -9l2 6-2 11" fill="none" stroke="#1b1712" stroke-width="1.1" stroke-linejoin="round" stroke-linecap="round"/><path d="M-2 -4l2-2" fill="none" stroke="#fff" stroke-width="1.2" stroke-linecap="round"/></g></svg></div><div class="ci" style="width:34px;height:34px;background:#c8b4ff"><svg width="26" height="26" viewBox="-4 -4 56 56"><g transform="translate(24 17) rotate(-25)"><path d="M0 -2L18 -5L18 5L0 2z" fill="#d8c8ff" opacity=".55"/></g><g transform="translate(24 17) rotate(205)"><path d="M0 -2L18 -5L18 5L0 2z" fill="#d8c8ff" opacity=".55"/></g><path d="M13 38V1h4.5v32h13V9H35v29z" fill="#b3aca2" stroke="#1b1712" stroke-width="2.1" stroke-linejoin="round" stroke-linecap="round"/><path d="M13 13h4.5M30.5 19H35M13 25h4.5" fill="none" stroke="#857f76" stroke-width="1.2" stroke-linecap="round"/><path d="M14 42h20l-2 3.4h-16z" fill="#b3aca2" stroke="#1b1712" stroke-width="2.1" stroke-linejoin="round" stroke-linecap="round"/><circle cx="24" cy="17" r="5" fill="#d8c8ff" opacity=".45"/><g transform="translate(24 17) scale(0.85)"><path d="M0 -9l5 6-5 11-5-11z" fill="#9a7dff" stroke="#1b1712" stroke-width="2.1" stroke-linejoin="round" stroke-linecap="round"/><path d="M0 -9l2 6-2 11" fill="none" stroke="#1b1712" stroke-width="1.1" stroke-linejoin="round" stroke-linecap="round"/><path d="M-2 -4l2-2" fill="none" stroke="#fff" stroke-width="1.2" stroke-linecap="round"/></g></svg></div></div><b>Faro U · alargado, una roca</b><small>Igual, con una sola roca flotando debajo.</small></div></div><h2>Dragones con los cuernos bajados</h2><div class="grid"><div class="c"><div class="pair"><div class="ci" style="width:84px;height:84px;background:#d0603a"><svg width="80" height="80" viewBox="-4 -4 56 56"><defs><clipPath id="cc0.62"><circle cx="24" cy="24" r="27.6"/></clipPath></defs><g clip-path="url(#cc0.62)"><g transform="translate(24 45.04) scale(0.62)"><g transform="translate(0 -16)"><g transform="scale(1 1)"><path d="M-10 0L-30 -26L-27 -12L-34 -14L-28 -2L-34 2L-24 6z" fill="#c05a2a" stroke="#1b1712" stroke-width="2.1" stroke-linejoin="round" stroke-linecap="round"/><path d="M-10 0L-30 -26M-12 2L-34 -14M-12 4L-34 2" fill="none" stroke="#1b1712" stroke-width="1.2" stroke-linecap="round"/></g><g transform="scale(-1 1)"><path d="M-10 0L-30 -26L-27 -12L-34 -14L-28 -2L-34 2L-24 6z" fill="#c05a2a" stroke="#1b1712" stroke-width="2.1" stroke-linejoin="round" stroke-linecap="round"/><path d="M-10 0L-30 -26M-12 2L-34 -14M-12 4L-34 2" fill="none" stroke="#1b1712" stroke-width="1.2" stroke-linecap="round"/></g></g><path d="M-20 10q0-24 20-24t20 24v14h-40z" fill="#e07a3a" stroke="#1b1712" stroke-width="2.1" stroke-linejoin="round" stroke-linecap="round"/><path d="M-9 -10q9-4 18 0v34h-18z" fill="#ffd2a0" stroke="#1b1712" stroke-width="2.1" stroke-linejoin="round" stroke-linecap="round"/><path d="M-9 -2h18M-9 6h18M-9 14h18" fill="none" stroke="#1b1712" stroke-width="1.2" stroke-linecap="round"/><g transform="translate(0 -22)"><path d="M-11 -8q0-12 11-12t11 12v5l-4 9q-7 4-14 0l-4-9z" fill="#e07a3a" stroke="#1b1712" stroke-width="2.1" stroke-linejoin="round" stroke-linecap="round"/><path d="M-5 2q5 3 10 0" fill="none" stroke="#1b1712" stroke-width="0" stroke-linejoin="round" stroke-linecap="round"/><path d="M-5 3q5 2.5 10 0" fill="none" stroke="#1b1712" stroke-width="1.4" stroke-linecap="round"/><circle cx="-2.5" cy="-1" r="0.9" fill="#1b1712" stroke="#1b1712" stroke-width="0"/><circle cx="2.5" cy="-1" r="0.9" fill="#1b1712" stroke="#1b1712" stroke-width="0"/><path d="M-7 -15q-8-3-8-11 4 4 10 6zM7 -15q8-3 8-11-4 4-10 6z" fill="#f4e4c0" stroke="#1b1712" stroke-width="1.4" stroke-linejoin="round" stroke-linecap="round"/><path d="M-8 -10l5 1.6-5 1.6zM8 -10l-5 1.6 5 1.6z" fill="#ffd23a" stroke="#1b1712" stroke-width="1.2" stroke-linejoin="round" stroke-linecap="round"/></g></g></g></svg></div><div class="ci" style="width:34px;height:34px;background:#d0603a"><svg width="30" height="30" viewBox="-4 -4 56 56"><defs><clipPath id="cc0.62"><circle cx="24" cy="24" r="27.6"/></clipPath></defs><g clip-path="url(#cc0.62)"><g transform="translate(24 45.04) scale(0.62)"><g transform="translate(0 -16)"><g transform="scale(1 1)"><path d="M-10 0L-30 -26L-27 -12L-34 -14L-28 -2L-34 2L-24 6z" fill="#c05a2a" stroke="#1b1712" stroke-width="2.1" stroke-linejoin="round" stroke-linecap="round"/><path d="M-10 0L-30 -26M-12 2L-34 -14M-12 4L-34 2" fill="none" stroke="#1b1712" stroke-width="1.2" stroke-linecap="round"/></g><g transform="scale(-1 1)"><path d="M-10 0L-30 -26L-27 -12L-34 -14L-28 -2L-34 2L-24 6z" fill="#c05a2a" stroke="#1b1712" stroke-width="2.1" stroke-linejoin="round" stroke-linecap="round"/><path d="M-10 0L-30 -26M-12 2L-34 -14M-12 4L-34 2" fill="none" stroke="#1b1712" stroke-width="1.2" stroke-linecap="round"/></g></g><path d="M-20 10q0-24 20-24t20 24v14h-40z" fill="#e07a3a" stroke="#1b1712" stroke-width="2.1" stroke-linejoin="round" stroke-linecap="round"/><path d="M-9 -10q9-4 18 0v34h-18z" fill="#ffd2a0" stroke="#1b1712" stroke-width="2.1" stroke-linejoin="round" stroke-linecap="round"/><path d="M-9 -2h18M-9 6h18M-9 14h18" fill="none" stroke="#1b1712" stroke-width="1.2" stroke-linecap="round"/><g transform="translate(0 -22)"><path d="M-11 -8q0-12 11-12t11 12v5l-4 9q-7 4-14 0l-4-9z" fill="#e07a3a" stroke="#1b1712" stroke-width="2.1" stroke-linejoin="round" stroke-linecap="round"/><path d="M-5 2q5 3 10 0" fill="none" stroke="#1b1712" stroke-width="0" stroke-linejoin="round" stroke-linecap="round"/><path d="M-5 3q5 2.5 10 0" fill="none" stroke="#1b1712" stroke-width="1.4" stroke-linecap="round"/><circle cx="-2.5" cy="-1" r="0.9" fill="#1b1712" stroke="#1b1712" stroke-width="0"/><circle cx="2.5" cy="-1" r="0.9" fill="#1b1712" stroke="#1b1712" stroke-width="0"/><path d="M-7 -15q-8-3-8-11 4 4 10 6zM7 -15q8-3 8-11-4 4-10 6z" fill="#f4e4c0" stroke="#1b1712" stroke-width="1.4" stroke-linejoin="round" stroke-linecap="round"/><path d="M-8 -10l5 1.6-5 1.6zM8 -10l-5 1.6 5 1.6z" fill="#ffd23a" stroke="#1b1712" stroke-width="1.2" stroke-linejoin="round" stroke-linecap="round"/></g></g></g></svg></div></div><b>Dragón bebé · de frente</b><small>Pequeñito, apoyado abajo, cabeza grande y cuernos cortos.</small></div><div class="c"><div class="pair"><div class="ci" style="width:84px;height:84px;background:#b8402a"><svg width="80" height="80" viewBox="-4 -4 56 56"><defs><clipPath id="cc0.82"><circle cx="24" cy="24" r="27.6"/></clipPath></defs><g clip-path="url(#cc0.82)"><g transform="translate(24 43.44) scale(0.82)"><g transform="translate(0 -16)"><g transform="scale(1 1)"><path d="M-10 0L-30 -26L-27 -12L-34 -14L-28 -2L-34 2L-24 6z" fill="#6a1a12" stroke="#1b1712" stroke-width="2.1" stroke-linejoin="round" stroke-linecap="round"/><path d="M-10 0L-30 -26M-12 2L-34 -14M-12 4L-34 2" fill="none" stroke="#1b1712" stroke-width="1.2" stroke-linecap="round"/></g><g transform="scale(-1 1)"><path d="M-10 0L-30 -26L-27 -12L-34 -14L-28 -2L-34 2L-24 6z" fill="#6a1a12" stroke="#1b1712" stroke-width="2.1" stroke-linejoin="round" stroke-linecap="round"/><path d="M-10 0L-30 -26M-12 2L-34 -14M-12 4L-34 2" fill="none" stroke="#1b1712" stroke-width="1.2" stroke-linecap="round"/></g></g><path d="M-20 10q0-24 20-24t20 24v14h-40z" fill="#b8402a" stroke="#1b1712" stroke-width="2.1" stroke-linejoin="round" stroke-linecap="round"/><path d="M-9 -10q9-4 18 0v34h-18z" fill="#e8b070" stroke="#1b1712" stroke-width="2.1" stroke-linejoin="round" stroke-linecap="round"/><path d="M-9 -2h18M-9 6h18M-9 14h18" fill="none" stroke="#1b1712" stroke-width="1.2" stroke-linecap="round"/><g transform="translate(0 -22)"><path d="M-11 -8q0-12 11-12t11 12v5l-4 9q-7 4-14 0l-4-9z" fill="#b8402a" stroke="#1b1712" stroke-width="2.1" stroke-linejoin="round" stroke-linecap="round"/><path d="M-5 2q5 3 10 0" fill="none" stroke="#1b1712" stroke-width="0" stroke-linejoin="round" stroke-linecap="round"/><path d="M-5 3q5 2.5 10 0" fill="none" stroke="#1b1712" stroke-width="1.4" stroke-linecap="round"/><circle cx="-2.5" cy="-1" r="0.9" fill="#1b1712" stroke="#1b1712" stroke-width="0"/><circle cx="2.5" cy="-1" r="0.9" fill="#1b1712" stroke="#1b1712" stroke-width="0"/><path d="M-7 -15q-8-3-8-11 4 4 10 6zM7 -15q8-3 8-11-4 4-10 6z" fill="#e8d8b0" stroke="#1b1712" stroke-width="1.4" stroke-linejoin="round" stroke-linecap="round"/><path d="M-8 -10l5 1.6-5 1.6zM8 -10l-5 1.6 5 1.6z" fill="#ffd23a" stroke="#1b1712" stroke-width="1.2" stroke-linejoin="round" stroke-linecap="round"/><path d="M-4 4l1.4 3.4 1.4-3.4zM1.2 4l1.4 3.4 1.4-3.4z" fill="#fff4dc" stroke="#1b1712" stroke-width="0.9" stroke-linejoin="round" stroke-linecap="round"/></g></g></g></svg></div><div class="ci" style="width:34px;height:34px;background:#b8402a"><svg width="30" height="30" viewBox="-4 -4 56 56"><defs><clipPath id="cc0.82"><circle cx="24" cy="24" r="27.6"/></clipPath></defs><g clip-path="url(#cc0.82)"><g transform="translate(24 43.44) scale(0.82)"><g transform="translate(0 -16)"><g transform="scale(1 1)"><path d="M-10 0L-30 -26L-27 -12L-34 -14L-28 -2L-34 2L-24 6z" fill="#6a1a12" stroke="#1b1712" stroke-width="2.1" stroke-linejoin="round" stroke-linecap="round"/><path d="M-10 0L-30 -26M-12 2L-34 -14M-12 4L-34 2" fill="none" stroke="#1b1712" stroke-width="1.2" stroke-linecap="round"/></g><g transform="scale(-1 1)"><path d="M-10 0L-30 -26L-27 -12L-34 -14L-28 -2L-34 2L-24 6z" fill="#6a1a12" stroke="#1b1712" stroke-width="2.1" stroke-linejoin="round" stroke-linecap="round"/><path d="M-10 0L-30 -26M-12 2L-34 -14M-12 4L-34 2" fill="none" stroke="#1b1712" stroke-width="1.2" stroke-linecap="round"/></g></g><path d="M-20 10q0-24 20-24t20 24v14h-40z" fill="#b8402a" stroke="#1b1712" stroke-width="2.1" stroke-linejoin="round" stroke-linecap="round"/><path d="M-9 -10q9-4 18 0v34h-18z" fill="#e8b070" stroke="#1b1712" stroke-width="2.1" stroke-linejoin="round" stroke-linecap="round"/><path d="M-9 -2h18M-9 6h18M-9 14h18" fill="none" stroke="#1b1712" stroke-width="1.2" stroke-linecap="round"/><g transform="translate(0 -22)"><path d="M-11 -8q0-12 11-12t11 12v5l-4 9q-7 4-14 0l-4-9z" fill="#b8402a" stroke="#1b1712" stroke-width="2.1" stroke-linejoin="round" stroke-linecap="round"/><path d="M-5 2q5 3 10 0" fill="none" stroke="#1b1712" stroke-width="0" stroke-linejoin="round" stroke-linecap="round"/><path d="M-5 3q5 2.5 10 0" fill="none" stroke="#1b1712" stroke-width="1.4" stroke-linecap="round"/><circle cx="-2.5" cy="-1" r="0.9" fill="#1b1712" stroke="#1b1712" stroke-width="0"/><circle cx="2.5" cy="-1" r="0.9" fill="#1b1712" stroke="#1b1712" stroke-width="0"/><path d="M-7 -15q-8-3-8-11 4 4 10 6zM7 -15q8-3 8-11-4 4-10 6z" fill="#e8d8b0" stroke="#1b1712" stroke-width="1.4" stroke-linejoin="round" stroke-linecap="round"/><path d="M-8 -10l5 1.6-5 1.6zM8 -10l-5 1.6 5 1.6z" fill="#ffd23a" stroke="#1b1712" stroke-width="1.2" stroke-linejoin="round" stroke-linecap="round"/><path d="M-4 4l1.4 3.4 1.4-3.4zM1.2 4l1.4 3.4 1.4-3.4z" fill="#fff4dc" stroke="#1b1712" stroke-width="0.9" stroke-linejoin="round" stroke-linecap="round"/></g></g></g></svg></div></div><b>Dragón adulto · de frente</b><small>Más grande, hasta abajo del círculo, alas de dragón y colmillos.</small></div><div class="c"><div class="pair"><div class="ci" style="width:84px;height:84px;background:#8a2a1a"><svg width="80" height="80" viewBox="-4 -4 56 56"><defs><clipPath id="cc0.95"><circle cx="24" cy="24" r="27.6"/></clipPath></defs><g clip-path="url(#cc0.95)"><g transform="translate(24 42.4) scale(0.95)"><g transform="translate(0 -16)"><g transform="scale(1 1)"><path d="M-10 0L-30 -26L-27 -12L-34 -14L-28 -2L-34 2L-24 6z" fill="#3a1210" stroke="#1b1712" stroke-width="2.1" stroke-linejoin="round" stroke-linecap="round"/><path d="M-10 0L-30 -26M-12 2L-34 -14M-12 4L-34 2" fill="none" stroke="#1b1712" stroke-width="1.2" stroke-linecap="round"/></g><g transform="scale(-1 1)"><path d="M-10 0L-30 -26L-27 -12L-34 -14L-28 -2L-34 2L-24 6z" fill="#3a1210" stroke="#1b1712" stroke-width="2.1" stroke-linejoin="round" stroke-linecap="round"/><path d="M-10 0L-30 -26M-12 2L-34 -14M-12 4L-34 2" fill="none" stroke="#1b1712" stroke-width="1.2" stroke-linecap="round"/></g></g><path d="M-20 10q0-24 20-24t20 24v14h-40z" fill="#5a1a12" stroke="#1b1712" stroke-width="2.1" stroke-linejoin="round" stroke-linecap="round"/><path d="M-9 -10q9-4 18 0v34h-18z" fill="#c89a60" stroke="#1b1712" stroke-width="2.1" stroke-linejoin="round" stroke-linecap="round"/><path d="M-9 -2h18M-9 6h18M-9 14h18" fill="none" stroke="#1b1712" stroke-width="1.2" stroke-linecap="round"/><g transform="translate(0 -22)"><path d="M-11 -8q0-12 11-12t11 12v5l-4 9q-7 4-14 0l-4-9z" fill="#5a1a12" stroke="#1b1712" stroke-width="2.1" stroke-linejoin="round" stroke-linecap="round"/><path d="M-5 2q5 3 10 0" fill="none" stroke="#1b1712" stroke-width="0" stroke-linejoin="round" stroke-linecap="round"/><path d="M-5 3q5 2.5 10 0" fill="none" stroke="#1b1712" stroke-width="1.4" stroke-linecap="round"/><circle cx="-2.5" cy="-1" r="0.9" fill="#1b1712" stroke="#1b1712" stroke-width="0"/><circle cx="2.5" cy="-1" r="0.9" fill="#1b1712" stroke="#1b1712" stroke-width="0"/><path d="M-7 -15q-8-3-8-11 4 4 10 6zM7 -15q8-3 8-11-4 4-10 6z" fill="#e8d8b0" stroke="#1b1712" stroke-width="1.4" stroke-linejoin="round" stroke-linecap="round"/><path d="M-6 -16l2-6 2.5 3.5 1.5-5 1.5 5 2.5-3.5 2 6z" fill="#ffd75a" stroke="#1b1712" stroke-width="1.3" stroke-linejoin="round" stroke-linecap="round"/><path d="M7 -15q8-3 8-11-4 4-10 6z" fill="#e8d8b0" stroke="#1b1712" stroke-width="1.4" stroke-linejoin="round" stroke-linecap="round"/><path d="M-8 -10l5 1.6-5 1.6zM8 -10l-5 1.6 5 1.6z" fill="#ffd23a" stroke="#1b1712" stroke-width="1.2" stroke-linejoin="round" stroke-linecap="round"/><path d="M-4 4l1.4 3.4 1.4-3.4zM1.2 4l1.4 3.4 1.4-3.4z" fill="#fff4dc" stroke="#1b1712" stroke-width="0.9" stroke-linejoin="round" stroke-linecap="round"/></g></g></g></svg></div><div class="ci" style="width:34px;height:34px;background:#8a2a1a"><svg width="30" height="30" viewBox="-4 -4 56 56"><defs><clipPath id="cc0.95"><circle cx="24" cy="24" r="27.6"/></clipPath></defs><g clip-path="url(#cc0.95)"><g transform="translate(24 42.4) scale(0.95)"><g transform="translate(0 -16)"><g transform="scale(1 1)"><path d="M-10 0L-30 -26L-27 -12L-34 -14L-28 -2L-34 2L-24 6z" fill="#3a1210" stroke="#1b1712" stroke-width="2.1" stroke-linejoin="round" stroke-linecap="round"/><path d="M-10 0L-30 -26M-12 2L-34 -14M-12 4L-34 2" fill="none" stroke="#1b1712" stroke-width="1.2" stroke-linecap="round"/></g><g transform="scale(-1 1)"><path d="M-10 0L-30 -26L-27 -12L-34 -14L-28 -2L-34 2L-24 6z" fill="#3a1210" stroke="#1b1712" stroke-width="2.1" stroke-linejoin="round" stroke-linecap="round"/><path d="M-10 0L-30 -26M-12 2L-34 -14M-12 4L-34 2" fill="none" stroke="#1b1712" stroke-width="1.2" stroke-linecap="round"/></g></g><path d="M-20 10q0-24 20-24t20 24v14h-40z" fill="#5a1a12" stroke="#1b1712" stroke-width="2.1" stroke-linejoin="round" stroke-linecap="round"/><path d="M-9 -10q9-4 18 0v34h-18z" fill="#c89a60" stroke="#1b1712" stroke-width="2.1" stroke-linejoin="round" stroke-linecap="round"/><path d="M-9 -2h18M-9 6h18M-9 14h18" fill="none" stroke="#1b1712" stroke-width="1.2" stroke-linecap="round"/><g transform="translate(0 -22)"><path d="M-11 -8q0-12 11-12t11 12v5l-4 9q-7 4-14 0l-4-9z" fill="#5a1a12" stroke="#1b1712" stroke-width="2.1" stroke-linejoin="round" stroke-linecap="round"/><path d="M-5 2q5 3 10 0" fill="none" stroke="#1b1712" stroke-width="0" stroke-linejoin="round" stroke-linecap="round"/><path d="M-5 3q5 2.5 10 0" fill="none" stroke="#1b1712" stroke-width="1.4" stroke-linecap="round"/><circle cx="-2.5" cy="-1" r="0.9" fill="#1b1712" stroke="#1b1712" stroke-width="0"/><circle cx="2.5" cy="-1" r="0.9" fill="#1b1712" stroke="#1b1712" stroke-width="0"/><path d="M-7 -15q-8-3-8-11 4 4 10 6zM7 -15q8-3 8-11-4 4-10 6z" fill="#e8d8b0" stroke="#1b1712" stroke-width="1.4" stroke-linejoin="round" stroke-linecap="round"/><path d="M-6 -16l2-6 2.5 3.5 1.5-5 1.5 5 2.5-3.5 2 6z" fill="#ffd75a" stroke="#1b1712" stroke-width="1.3" stroke-linejoin="round" stroke-linecap="round"/><path d="M7 -15q8-3 8-11-4 4-10 6z" fill="#e8d8b0" stroke="#1b1712" stroke-width="1.4" stroke-linejoin="round" stroke-linecap="round"/><path d="M-8 -10l5 1.6-5 1.6zM8 -10l-5 1.6 5 1.6z" fill="#ffd23a" stroke="#1b1712" stroke-width="1.2" stroke-linejoin="round" stroke-linecap="round"/><path d="M-4 4l1.4 3.4 1.4-3.4zM1.2 4l1.4 3.4 1.4-3.4z" fill="#fff4dc" stroke="#1b1712" stroke-width="0.9" stroke-linejoin="round" stroke-linecap="round"/></g></g></g></svg></div></div><b>Dragón anciano · de frente</b><small>Ocupa casi todo el círculo; escamas oscuras y corona entre los cuernos.</small></div></div>
